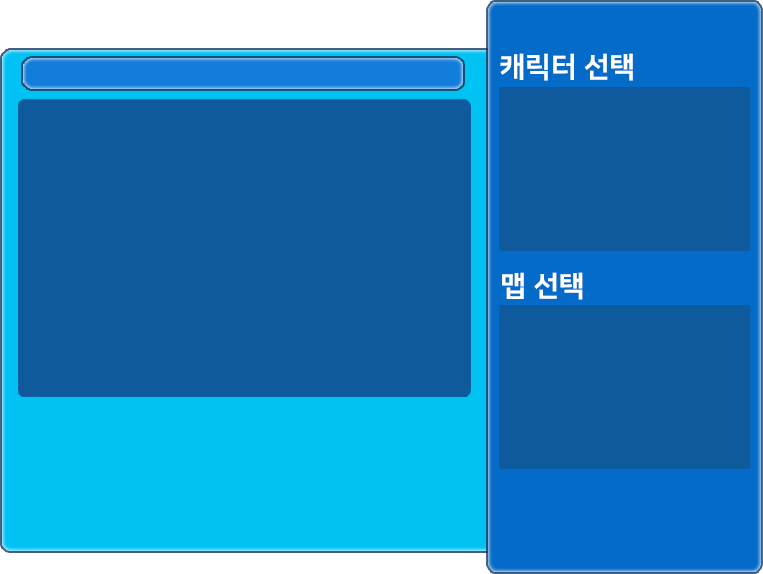
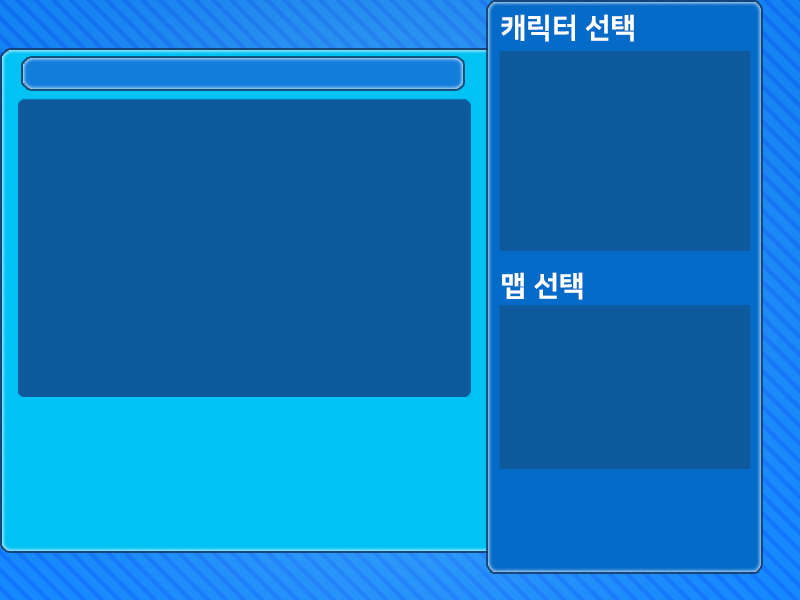
feat: 캐릭터 선택기능 추가
방장은 out.write("8/"+userId+"/"+username+"/"+roomNumber+"/"+userCount+"/"+selectedCharacter+"/"+selectedMap+"\n");
로 selectedCharacter와 selectedMap를 추가적으로 String형식으로 넘겨줌.
방장이 아닌경우
out.write("7/"+userId+"/"+username+"/"+roomNumber+"/"+clientUserIndex+"/"+selectedCharacter+"\n");
로 selectedCharacter만 추가적으로 String 형식으로 넘겨줌

diff --git a/ArcadeClient/src/ClientWaitingRoom.java b/ArcadeClient/src/ClientWaitingRoom.java
@@ -1,4 +1,7 @@
+import java.awt.event.ActionEvent;
+import java.awt.event.ActionListener;
 import java.awt.event.MouseAdapter;
+
 import java.awt.event.MouseEvent;
 import java.io.BufferedWriter;
 import java.io.IOException;
@@ -10,6 +13,8 @@ import javax.swing.JFrame;
 import javax.swing.JLabel;
 import javax.swing.JPanel;
 
+import java.util.Random;
+
 public class ClientWaitingRoom extends JFrame {
 	
 	private ImageIcon BG = new ImageIcon("./WaitingRoomImages/waitRoomBG.png");
@@ -19,6 +24,14 @@ public class ClientWaitingRoom extends JFrame {
 	private ImageIcon readyButton = new ImageIcon("./WaitingRoomImages/readyButton.png");
 	private ImageIcon selectDaoButton = new ImageIcon("./WaitingRoomImages/characterDao.png");
 	private ImageIcon selectDiziniButton = new ImageIcon("./WaitingRoomImages/characterDizini.png");
+	private ImageIcon selectBazziButton = new ImageIcon("./WaitingRoomImages/characterBazzi.png");
+	private ImageIcon selectEthiButton = new ImageIcon("./WaitingRoomImages/characterEthi.png");
+	private ImageIcon selectKephiButton = new ImageIcon("./WaitingRoomImages/characterKephi.png");
+	private ImageIcon selectMaridButton = new ImageIcon("./WaitingRoomImages/characterMarid.png");
+	private ImageIcon selectMosButton = new ImageIcon("./WaitingRoomImages/characterMos.png");
+	private ImageIcon selectUniButton = new ImageIcon("./WaitingRoomImages/characterUni.png");
+	private ImageIcon selectRandomButton = new ImageIcon("./WaitingRoomImages/characterRandom.png");
+	
 	private ImageIcon selectVillageMapButton = new ImageIcon("./WaitingRoomImages/mapVillage.png");
 	private ImageIcon comingsoonIcon = new ImageIcon("./WaitingRoomImages/mapComingsoon.png");
 	private ImageIcon checkIcon = new ImageIcon("./WaitingRoomImages/check.png");
@@ -36,10 +49,20 @@ public class ClientWaitingRoom extends JFrame {
 	
 	private JButton selectDao;
 	private JButton selectDizini;
+	private JButton selectBazzi;
+	private JButton selectEthi;
+	private JButton selectKephi;
+	private JButton selectMarid;
+	private JButton selectMos;
+	private JButton selectUni;
+	private JButton selectRandom;
+	
 	private JButton selectVillageMap;
 	private JLabel comingsoon;
 	private JLabel check;
 	
+	private String selectedCharacter;
+	private String selectedMap;
 	
 	public Vector<ClientWaitingRoomUsers> waitUsers = new Vector<ClientWaitingRoomUsers>();
 	
@@ -73,7 +96,7 @@ public class ClientWaitingRoom extends JFrame {
 		SelectCharFunc seletDaoFunc = new SelectCharFunc();
 		selectDao.addMouseListener(seletDaoFunc);
 		selectDao.setSize(selectDaoButton.getIconWidth(),selectDaoButton.getIconHeight());
-		selectDao.setLocation(507,112);
+		selectDao.setLocation(504,57);
 		bgUI.add(selectDao);
 		selectDao.setVisible(true);
 		
@@ -82,9 +105,74 @@ public class ClientWaitingRoom extends JFrame {
 		SelectCharFunc seletDiziniFunc = new SelectCharFunc();
 		selectDizini.addMouseListener(seletDiziniFunc);
 		selectDizini.setSize(selectDiziniButton.getIconWidth(),selectDiziniButton.getIconHeight());
-		selectDizini.setLocation(631,112);
+		selectDizini.setLocation(567,57);
 		bgUI.add(selectDizini);
 		selectDizini.setVisible(true);
+		
+		// 모스
+		selectMos = new JButton(selectMosButton);
+		SelectCharFunc seletMosFunc = new SelectCharFunc();
+		selectMos.addMouseListener(seletMosFunc);
+		selectMos.setSize(selectMosButton.getIconWidth(),selectMosButton.getIconHeight());
+		selectMos.setLocation(629,57);
+		bgUI.add(selectMos);
+		selectMos.setVisible(true);
+		
+		// 에띠
+		selectEthi= new JButton(selectEthiButton);
+		SelectCharFunc seletEthiFunc = new SelectCharFunc();
+		selectEthi.addMouseListener(seletEthiFunc);
+		selectEthi.setSize(selectEthiButton.getIconWidth(),selectEthiButton.getIconHeight());
+		selectEthi.setLocation(691,57);
+		bgUI.add(selectEthi);
+		selectEthi.setVisible(true);
+		
+		// 마리드
+		selectMarid = new JButton(selectMaridButton);
+		SelectCharFunc seletMaridFunc = new SelectCharFunc();
+		selectMarid.addMouseListener(seletMaridFunc);
+		selectMarid.setSize(selectMaridButton.getIconWidth(),selectMaridButton.getIconHeight());
+		selectMarid.setLocation(504,187);
+		bgUI.add(selectMarid);
+		selectMarid.setVisible(true);
+		
+		// 배찌
+		selectBazzi = new JButton(selectBazziButton);
+		SelectCharFunc seletBazziFunc = new SelectCharFunc();
+		selectBazzi.addMouseListener(seletBazziFunc);
+		selectBazzi.setSize(selectBazziButton.getIconWidth(),selectBazziButton.getIconHeight());
+		selectBazzi.setLocation(567,187);
+		bgUI.add(selectBazzi);
+		selectBazzi.setVisible(true);
+		
+		// 우니
+		selectUni = new JButton(selectUniButton);
+		SelectCharFunc seletUniFunc = new SelectCharFunc();
+		selectUni.addMouseListener(seletUniFunc);
+		selectUni.setSize(selectUniButton.getIconWidth(),selectUniButton.getIconHeight());
+		selectUni.setLocation(629,187);
+		bgUI.add(selectUni);
+		selectUni.setVisible(true);
+		
+		// 케피
+		selectKephi = new JButton(selectKephiButton);
+		SelectCharFunc seletKephiFunc = new SelectCharFunc();
+		selectKephi.addMouseListener(seletKephiFunc);
+		selectKephi.setSize(selectKephiButton.getIconWidth(),selectKephiButton.getIconHeight());
+		selectKephi.setLocation(691,187);
+		bgUI.add(selectKephi);
+		selectKephi.setVisible(true);
+		
+		
+		// 랜덤
+		selectRandom = new JButton(selectRandomButton);
+		SelectCharFunc seletRandomFunc = new SelectCharFunc();
+		selectRandom.addMouseListener(seletRandomFunc);
+		selectRandom.setSize(selectRandomButton.getIconWidth(),selectRandomButton.getIconHeight());
+		selectRandom.setLocation(597,122);
+		bgUI.add(selectRandom);
+		selectRandom.setVisible(true);
+		
 		
 		// 맵선택 UI
 		// 빌리지
@@ -183,12 +271,68 @@ public class ClientWaitingRoom extends JFrame {
 	public class SelectCharFunc extends MouseAdapter{
 		@Override
 		public void mouseClicked(MouseEvent e) {
+			
 			if (e.getSource() == selectDao) {
-	            System.out.println("Dao Selected");
+	            selectedCharacter = "Dao";
+	            System.out.println("Dao Selected!");
 	            
 	        } else if (e.getSource() == selectDizini) {
-	            System.out.println("Dizini Selected");
-	            
+	        	selectedCharacter = "Dizini";
+	        	System.out.println("Dizini Selected!");
+	        	
+	        } else if (e.getSource() == selectBazzi) {
+	        	selectedCharacter = "Bazzi";
+	        	System.out.println("Bazzi Selected!");
+	        	
+	        } else if (e.getSource() == selectEthi) {
+	        	selectedCharacter = "Ethi";
+	        	System.out.println("Ethi Selected!");
+	        	
+	        } else if (e.getSource() == selectKephi) {
+	        	selectedCharacter = "Kephi";
+	        	System.out.println("Kephi Selected!");
+	        	
+	        } else if (e.getSource() == selectMarid) {
+	        	selectedCharacter = "Marid";
+	        	System.out.println("Marid Selected!");
+	        	
+	        } else if (e.getSource() == selectMos) {
+	        	selectedCharacter = "Mos";
+	        	System.out.println("Mos Selected!");
+	        	
+	        } else if (e.getSource() == selectUni) {
+	        	selectedCharacter = "Uni";
+	        	System.out.println("Uni Selected!");
+	        	
+	        } else if (e.getSource() == selectRandom) {
+	        	System.out.println("Random Selected!");
+	        	Random random = new Random();
+	        	int randomNumber = random.nextInt(8) + 1;
+	        	if (randomNumber == 1) {
+	        		selectedCharacter = "Dao";
+	        		System.out.println("Dao Selected Randomly!");
+	        	} else if (randomNumber == 2) {
+	        		selectedCharacter = "Dizini";
+	        		System.out.println("Dizini Selected Randomly!");
+	        	} else if (randomNumber == 3) {
+	        		selectedCharacter = "Bazzi";
+	        		System.out.println("Bazzi Selected Randomly!");
+	        	} else if (randomNumber == 4) {
+	        		selectedCharacter = "Ethi";
+	        		System.out.println("Ethi Selected Randomly!");
+	        	} else if (randomNumber == 5) {
+	        		selectedCharacter = "Kephi";
+	        		System.out.println("Kephi Selected Randomly!");
+	        	} else if (randomNumber == 6) {
+	        		selectedCharacter = "Marid";
+	        		System.out.println("Marid Selected Randomly!");
+	        	} else if (randomNumber == 7) {
+	        		selectedCharacter = "Mos";
+	        		System.out.println("Mos Selected Randomly!");
+	        	} else if (randomNumber == 8) {
+	        		selectedCharacter = "Uni";
+	        		System.out.println("Uni Selected Randomly!");
+	        	}
 	        }
 		}
 		
@@ -198,8 +342,8 @@ public class ClientWaitingRoom extends JFrame {
 		@Override
 		public void mouseClicked(MouseEvent e) {
 			if (e.getSource() == selectVillageMap) {
-	            System.out.println("Village Map Selected");
- 
+				selectedMap = "Village";
+				System.out.println("Village Map Selected!");
 	        } 
 		}
 		
@@ -230,7 +374,7 @@ public class ClientWaitingRoom extends JFrame {
 				// 유저 수를 세고, 서버로 전달한다. (서버에서는 준비한 유저 수와 비교해서 같으면 게임을 실행시킨다)
 				int userCount = 0;
 				for(int i=0;i<waitUsers.size();i++) if(waitUsers.elementAt(i).isUserEntered) userCount++;
-				out.write("8/"+userId+"/"+username+"/"+roomNumber+"/"+userCount+"\n");
+				out.write("8/"+userId+"/"+username+"/"+roomNumber+"/"+userCount+"/"+selectedCharacter+"/"+selectedMap+"\n");
 				out.flush();
 			} catch (IOException e1) {
 				// TODO Auto-generated catch block
@@ -245,7 +389,7 @@ public class ClientWaitingRoom extends JFrame {
 		public void mouseClicked(MouseEvent e) {
 			try {
 				// 서버로 어떤 클라이언트가 준비 상태를 변경하는지 전송
-				out.write("7/"+userId+"/"+username+"/"+roomNumber+"/"+clientUserIndex+"\n");
+				out.write("7/"+userId+"/"+username+"/"+roomNumber+"/"+clientUserIndex+"/"+selectedCharacter+"\n");
 				out.flush();
 			} catch (IOException e1) {
 				// TODO Auto-generated catch block
